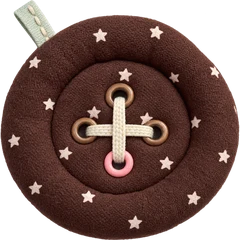
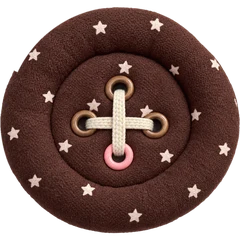
터치 중엔 자동 순환 안 함, 모바일 주민 대화 중 카드 안 띄움, 커피 단추 고리 없는 모양
- 활동 판정: 누름·휠·키 + 움직임·스크롤(capture, 0.5초에 한 번), 손가락이 닿아 있는 동안엔 시간이 지나도 시작 안 함. 순환 중 만지면 출발한 카메라도 멈춤(viewport.stop 새로 엶)
- 모바일 주민 대화: 카드(바텀시트)를 띄우지 않고 대화 상자 이름표 옆 '가게 카드 ›'(talk 의 action) — 누르면 대화를 닫고 카드, 대화가 끝나면 자동으로 카드. 데스크톱은 그대로
- 커피 단추: 지금 그림에서 왼쪽 위 민트 고리 부분만 잘라 낸 둥근 몸통(사용자가 보낸 고리 없는 단추와 같은 모양)

diff --git a/src/map/legacy/engine.legacy.js b/src/map/legacy/engine.legacy.js
@@ -239,7 +239,7 @@ export function bootLegacy(DATA){
      말을 거는 동안 그 주민은 그 자리에 서 있다(walker.hold). 말풍선·상자 모양은 이장님 것과 같다(chief-speech · chief-talk). 큰 상자가 닫히면 다시 걷는다 */
   const HOOK_MS = 3000;
   let villager = null, vHookT = null;   /* { w, script } 지금 말을 거는 주민 */
-  const vTalk = mountTalk(stage, { onEnd: () => { villagerDone(); if(KIOSK) idle(); } });   /* 대화가 끝나면 무입력 30초를 다시 센다 → 자동 순환 이어짐 */
+  const vTalk = mountTalk(stage, { onEnd: () => { const st = vEndCard; vEndCard = null; villagerDone(); if(st) openStoreCard(st); if(KIOSK) idle(); } });   /* 모바일: 대화가 끝나면 그 가게 카드 */   /* 대화가 끝나면 무입력 30초를 다시 센다 → 자동 순환 이어짐 */
   const vSpeech = mountSpeech(stage, {
     anchor: () => { const g = villager?.w.g; if(!g || g.getAttribute('display') === 'none') return null; const r = g.getBoundingClientRect(), st = stage.getBoundingClientRect(); return { x: r.left + r.width / 2 - st.left, y: r.top - st.top }; },
     bounds: () => { const m = map.getBoundingClientRect(), st = stage.getBoundingClientRect(); return { left: m.left - st.left, top: m.top - st.top, width: m.width, height: m.height }; },
@@ -251,15 +251,20 @@ export function bootLegacy(DATA){
     vHookT = setTimeout(() => { if(villager?.w === w && !vTalk.visible) villagerDone(); }, script.hook.length * 34 + HOOK_MS); }   /* 다 찍힌 뒤 HOOK_MS 동안 남는다(한 글자 34ms 타자) */
   /* 주민과 대화(10-23): 자동 순환을 멈추고 그 주민을 비춘다 — 큰 상자를 열고, 그 주민의 가게(대본 store = 가게 이름) 카드를 사이드바에 펴고,
      사이드바가 다 펴진 뒤 카메라가 주민 쪽으로 줌인(전시 보드에선 자동 순환과 같은 배율). 주민은 대화 동안 그 자리에 서 있다(hold) */
+  /* 모바일(10-23): 대화 중엔 가게 카드(바텀시트)를 띄우지 않는다 — 대화 상자와 겹쳤다. 이름표 옆 '가게 카드 ›' 로 대화를 닫고 바로 열거나, 대화가 끝나면 열린다(vEndCard) */
+  let vEndCard = null;
+  const openStoreCard = (st) => { if(KIOSK && board){ board.select(st.id); board.focus(null); } select(st, false); };
   function villagerOpen(w, script){ if(chiefBusy()) return; takeVillager(w, script); vSpeech.hide(); stopCycle();
+    const st = script.store ? STORES.find(s => s.name === script.store) : null, wide = desktop();
+    vEndCard = !wide && st ? st : null;
     vTalk.start({ name: script.store && !script.name.startsWith(script.store) ? `${script.store} · ${script.name}` : script.name,   /* 이름이 가게 이름으로 시작하면('신당야학 박소민 강학') 겹치지 않게 이름만 */
-      pages: script.pages.map(p => [p]) });
-    const st = script.store ? STORES.find(s => s.name === script.store) : null;
+      pages: script.pages.map(p => [p]),
+      action: !wide && st ? { label: '가게 카드 ›', onClick: () => { vEndCard = null; villagerDone(); openStoreCard(st); } } : undefined });
     const go = () => { if(villager?.w !== w) return;
-      if(st){ if(KIOSK && board){ board.select(st.id); board.focus(null); } select(st, false, true); }
+      if(st && wide){ if(KIOSK && board){ board.select(st.id); board.focus(null); } select(st, false, true); }
       const s0 = KIOSK && board ? focusZoom() : Math.max(scale(), 4.6);
-      centerOn(w.x + w.ox, w.y + w.oy, s0, desktop() ? V.ph * 0.1 : V.ph * 0.26); };   /* 큰 상자(데스크톱)·바텀시트(폰)가 아래를 덮으니 사람을 조금 위에 */
-    if(st) withSide(false, go); else go(); }
+      centerOn(w.x + w.ox, w.y + w.oy, s0, wide ? V.ph * 0.1 : V.ph * 0.14); };   /* 아래 큰 상자를 피해 사람을 조금 위에 */
+    if(st && wide) withSide(false, go); else go(); }
   function villagerDone(){ clearTimeout(vHookT); vSpeech.hide(); if(vTalk.visible) vTalk.hide(); villager?.w.release(); villager = null; }
   function bindVillager(w, script){
     w.makeClickable();
@@ -328,8 +333,20 @@ export function bootLegacy(DATA){
       centerOn(f.x, f.y, focusZoom(), desktop() ? 0 : V.ph * 0.24); });                    /* 폰은 바텀시트가 아래를 덮으니 조금 위로 */
     cycleT = setTimeout(cycleStep, DWELL_MS);
   }
-  const idle = () => { clearTimeout(idleT); stopCycle(); idleT = setTimeout(() => { if(canCycle()){ cycling = true; cycleStep(); } }, IDLE_MS); };
-  ['pointerdown', 'wheel', 'keydown', 'touchstart'].forEach(ev => window.addEventListener(ev, idle, { passive: true })); idle();
+  /* 활동 판정(10-23): 누르는 순간만이 아니라 손가락·마우스를 대고 있는 동안(끌기·핀치), 움직임, 스크롤(카드 읽기)도 활동.
+     capture 단계로 들어서 중간에서 막는 요소가 있어도 받는다. 손가락이 닿아 있는 동안엔 30초가 지나도 순환을 시작하지 않는다.
+     순환 중에 만지면 이미 출발한 카메라 이동도 그 자리에서 멈춘다(V.stop) — 전엔 카드를 만져도 카메라가 끝까지 가 '터치 중 전환'처럼 보였다 */
+  const downs = new Set(); let lastIdle = 0;
+  const startIdle = () => { clearTimeout(idleT); idleT = setTimeout(() => { if(downs.size){ startIdle(); return; } if(canCycle()){ cycling = true; cycleStep(); } }, IDLE_MS); };
+  const idle = () => { if(cycling){ stopCycle(); V.stop(); } lastIdle = performance.now(); startIdle(); };
+  const idleSoft = () => { if(cycling || performance.now() - lastIdle > 500) idle(); };   /* 움직임·스크롤은 0.5초에 한 번만 다시 센다 */
+  const opt = { passive: true, capture: true };
+  ['pointerdown', 'wheel', 'keydown', 'touchstart'].forEach(ev => window.addEventListener(ev, idle, opt));
+  ['pointermove', 'touchmove', 'scroll'].forEach(ev => window.addEventListener(ev, idleSoft, opt));
+  window.addEventListener('pointerdown', e => downs.add(e.pointerId), opt);
+  ['pointerup', 'pointercancel'].forEach(ev => window.addEventListener(ev, e => { downs.delete(e.pointerId); idle(); }, opt));
+  window.addEventListener('blur', () => downs.clear());
+  idle();
   function wake(){}   /* 예전엔 30초 뒤 자동 전환을 다시 걸었다. 호출 자리는 남겨 둔다 */
 
   /* 인트로 (펼침) */

diff --git a/src/features/chief-talk/talk.ts b/src/features/chief-talk/talk.ts
@@ -4,7 +4,7 @@ import './talk.css';
    · start(script): 첫 장부터. 한 장(pages[i])의 줄들을 차례로 찍고, 다 찍히면 holdMs 뒤 다음 장. 마지막 장은 lastHoldMs 뒤 닫힌다(onEnd).
    · 패널을 누르면: 찍는 중이면 그 장을 바로 다 보여주고, 다 보였으면 다음 장(마지막이면 닫기).
    · **굵게** 는 <b> 로(강조색). 순수 UI: 지도 엔진·데이터를 모른다. 대본은 content/characters/chief-talk.json. */
-export interface TalkScript { name: string; pages: string[][] }
+export interface TalkScript { name: string; pages: string[][]; action?: { label: string; onClick: () => void } }   // action: 이름표 오른쪽 작은 버튼(모바일 주민 대화의 '가게 카드 ›', 10-23)
 export interface TalkOptions { charMs?: number; lineGapMs?: number; holdMs?: number; lastHoldMs?: number; onEnd?: () => void }
 export interface Talk { start(script: TalkScript): void; hide(): void; readonly visible: boolean }
 
@@ -24,8 +24,10 @@ export function mountTalk(stage: HTMLElement, o: TalkOptions = {}): Talk {
   const charMs = o.charMs ?? 38, lineGapMs = o.lineGapMs ?? 260, holdMs = o.holdMs ?? 3200, lastHoldMs = o.lastHoldMs ?? 5000;
   const el = document.createElement('div'); el.className = 'talk'; el.setAttribute('role', 'dialog'); el.setAttribute('aria-live', 'polite');
   /* 시안 v2 의 대화 상자(10-23): 리넨 천 + 홈질 테두리, 왼쪽 위 이름 꼬리표, 글, 오른쪽 아래 쪽수. 얼굴 그림은 없다(10-23 사용자 결정) */
-  el.innerHTML = '<span class="tk-name"></span><div class="tk-lines"></div><span class="tk-page"></span>';
+  el.innerHTML = '<span class="tk-name"></span><button type="button" class="tk-act"></button><div class="tk-lines"></div><span class="tk-page"></span>';
   stage.appendChild(el);
+  const actEl = el.querySelector('.tk-act') as HTMLButtonElement;
+  actEl.addEventListener('click', (e) => { e.stopPropagation(); script?.action?.onClick(); });
   const nameEl = el.querySelector('.tk-name') as HTMLElement, linesEl = el.querySelector('.tk-lines') as HTMLElement, pageEl = el.querySelector('.tk-page') as HTMLElement;
   let script: TalkScript | null = null, page = 0, run = 0, timer = 0, typing = false, visible = false;
   const clear = () => { clearTimeout(timer); timer = 0; };
@@ -61,7 +63,7 @@ export function mountTalk(stage: HTMLElement, o: TalkOptions = {}): Talk {
   });
   return {
     get visible() { return visible; },
-    start(s) { clear(); script = s; page = 0; visible = true; nameEl.textContent = s.name; el.classList.add('show'); showPage(); },
+    start(s) { clear(); script = s; page = 0; visible = true; nameEl.textContent = s.name; actEl.textContent = s.action?.label || ''; actEl.hidden = !s.action; el.classList.add('show'); showPage(); },
     hide,
   };
 }

diff --git a/src/map/viewport.ts b/src/map/viewport.ts
@@ -34,6 +34,7 @@ export interface Viewport {
   centerOn(x: number, y: number, targetScale: number, offsetY?: number, onDone?: () => void): void;
   toMap(clientX: number, clientY: number): [number, number];   // 화면 px → 지도 좌표
   relayout(): void;
+  stop(): void;   // 진행 중인 카메라 이동을 그 자리에서 멈춤(자동 순환 중 사람이 만졌을 때)
   destroy(): void;
 }
 
@@ -148,6 +149,7 @@ export function createViewport(o: ViewportOptions): Viewport {
   }
 
   return {
+    stop: stopAnim,
     get x() { return vx; }, get y() { return vy; }, get w() { return vw; }, get h() { return vh; },
     get pw() { return pw; }, get ph() { return ph; }, get moved() { return moved; },
     scale, apply, fit, homeView, resetHome, clampView, zoomAt, zoomSmooth, animateTo, centerOn, toMap, relayout, destroy,

diff --git a/src/features/chief-talk/talk.css b/src/features/chief-talk/talk.css
@@ -11,3 +11,7 @@
 .talk .tk-page{position:absolute;right:14px;bottom:8px;font-family:"Nanum Pen Script","IBM Plex Sans KR",cursive;font-size:15px;color:#9b3d49}
 @media(max-width:700px){.talk{bottom:24px;width:calc(100% - 32px);padding:16px 16px 14px}.talk .tk-lines{font-size:15px}}
 @media(prefers-reduced-motion:reduce){.talk{transition:opacity .2s}}
+
+/* 이름표 오른쪽 작은 버튼(10-23, 모바일 주민 대화의 '가게 카드 ›') — 이름표와 같은 꼬리표 모양, 테두리만 */
+.talk .tk-act{position:absolute;right:14px;top:-13px;z-index:1;padding:3px 10px;background:#fbf3e2;color:#8c1e32;border:1px solid #8c1e32;border-radius:2px;font:700 12px var(--font-ui);line-height:1.35;cursor:pointer}
+.talk .tk-act[hidden]{display:none}

diff --git a/CLAUDE.md b/CLAUDE.md
@@ -77,7 +77,7 @@ node tools/check_screen.mjs   # 헤드리스 Chrome. 마지막 줄 "통과"
 
 ## 6. 다음 할 일: 전시 기능 (서로 독립, 기능 하나 → 확인 → 커밋)
 우선순위는 전시 기획에 따른다.
-- **주민 클릭 → 인터뷰**(10-23 1명 완료): 대본은 `content/characters/villagers/*.json`(파일 하나 = 주민 하나, 형식은 `sindang-yahak.json`: id·name·store(가게 이름과 똑같이)·hook·pages, 선택 `look`(모습 지정 — `act.json` 참고: style short|bob|hat, bun·bag, col 은 팔레트 키 h머리·t윗옷·p바지·b신발·s피부·a모자·g가방, 색은 `palette.json` 안에서만. 없으면 무작위), 3장 미만은 안 띄우고 8장까지). 앞의 주민부터 하나씩 대본을 받는다(`bindVillager`, 임시 엔진 전시 모드 블록). 마우스를 올리면(터치는 첫 탭) 머리 위에 hook 말풍선(다 찍힌 뒤 3초), 누르면(터치는 두 번째 탭) 이장님과 같은 큰 상자에 장마다 넘김(이름표 '가게 · 이름'). 대화가 열리면 자동 순환을 멈추고 그 주민을 비춘다(10-23): 대본 `store` 와 이름이 같은 가게 카드를 사이드바(폰 바텀시트)에 펴고(`select(st, false, true)` — 셋째 인자는 주민 대화를 닫지 않음), 사이드바가 다 펴진 뒤 주민 쪽으로 줌인(전시 보드는 자동 순환과 같은 배율, 평소 지도는 4.6 이상). 대화가 끝나면 무입력 30초를 다시 센다. 말을 거는 동안 그 주민은 멈춰 선다(`walker.hold/release`), 누를 수 있는 주민은 스프라이트 칸 전체가 투명 사각형으로 잡힌다(`makeClickable`, `.wk-talk`). 평소 지도·전시 보드 둘 다. **빨간 세모(이장님과 같은 표시)는 `kind: "form"`(시민이 구글폼으로 남긴 인터뷰) 주민에게만** — 가게 인터뷰 주민(`shop`)은 표시 없음(10-23 사용자 결정, `walker.showMark`). 지금 2명(바액트 사장님 — 모습 지정, 신당야학 박소민 강학 — 무작위). 남은 것: 고정 행인 채우기.
+- **주민 클릭 → 인터뷰**(10-23 1명 완료): 대본은 `content/characters/villagers/*.json`(파일 하나 = 주민 하나, 형식은 `sindang-yahak.json`: id·name·store(가게 이름과 똑같이)·hook·pages, 선택 `look`(모습 지정 — `act.json` 참고: style short|bob|hat, bun·bag, col 은 팔레트 키 h머리·t윗옷·p바지·b신발·s피부·a모자·g가방, 색은 `palette.json` 안에서만. 없으면 무작위), 3장 미만은 안 띄우고 8장까지). 앞의 주민부터 하나씩 대본을 받는다(`bindVillager`, 임시 엔진 전시 모드 블록). 마우스를 올리면(터치는 첫 탭) 머리 위에 hook 말풍선(다 찍힌 뒤 3초), 누르면(터치는 두 번째 탭) 이장님과 같은 큰 상자에 장마다 넘김(이름표 '가게 · 이름'). 모바일은 대화 중 카드를 띄우지 않고(대화 상자와 겹침) 이름표 옆 '가게 카드 ›'(`TalkScript.action`)로 대화를 닫고 열거나 대화가 끝나면 연다. 터치 판정은 pointerdown 의 종류(iOS 사파리는 click 에 비어 옴). 대화가 열리면 자동 순환을 멈추고 그 주민을 비춘다(10-23): 대본 `store` 와 이름이 같은 가게 카드를 사이드바(폰 바텀시트)에 펴고(`select(st, false, true)` — 셋째 인자는 주민 대화를 닫지 않음), 사이드바가 다 펴진 뒤 주민 쪽으로 줌인(전시 보드는 자동 순환과 같은 배율, 평소 지도는 4.6 이상). 대화가 끝나면 무입력 30초를 다시 센다. 말을 거는 동안 그 주민은 멈춰 선다(`walker.hold/release`), 누를 수 있는 주민은 스프라이트 칸 전체가 투명 사각형으로 잡힌다(`makeClickable`, `.wk-talk`). 평소 지도·전시 보드 둘 다. **빨간 세모(이장님과 같은 표시)는 `kind: "form"`(시민이 구글폼으로 남긴 인터뷰) 주민에게만** — 가게 인터뷰 주민(`shop`)은 표시 없음(10-23 사용자 결정, `walker.showMark`). 지금 2명(바액트 사장님 — 모습 지정, 신당야학 박소민 강학 — 무작위). 남은 것: 고정 행인 채우기.
 - **이장님 영상·자막**: `actors/chief.ts`의 이장님 `g`에 클릭(`pointer-events` 켜기) → `features/chief/`가 `<video>`와 동물의 숲식 자막 상자를 띄운다. 영상 `public/chief/chief.mp4` 20MB 이하, 자막 `content/chief/subtitles.json`.
 - **구글폼 → 시민 인터뷰 주민**(10-23 코드 완료, 연결은 사용자 몫 — `tools/apps-script/설치_안내.md`): §9 파이프라인. service role(secret) 키는 Apps Script 스크립트 속성에만.
 - **이스터에그**: 상단 "MORE" 5회 클릭 → 경관 대시보드(별도 Pages 프로젝트). `features/easter-egg/`.
@@ -143,7 +143,7 @@ interviews   인터뷰    id, source(form|shop), answers(json), summary_md, stor
 - 폼을 고쳐 같은 문항 열이 두 벌(옛 문장·새 문장, 단일·복수 선택)이어도 번호('SQ1.' '문8-1.')나 파트 A 문장 사전(옛·새 둘 다)으로 찾고 값이 있는 뒤쪽 열을 쓴다.
 - 외형은 캐릭터 id 를 seed 로(같은 사람은 늘 같은 모습). 새 주민은 화면 밖 길에서 걸어 들어온다. 견본 응답 `content/characters/form-samples.json`, `?formdemo=N` 으로 DB 없이 미리 보기.
 - 이장님: 클릭 시 영상 재생 + 동물의 숲식 자막 상자. 이스터에그: MORE 5회 클릭 → 경관 대시보드.
-- **전시 모드 = 전시 보드**(10-23, 정본은 `features/kiosk-board/board.ts` 머리 주석과 `engine.legacy.js` 전시 모드 블록): 켜면 사이드바가 접히고 카메라가 보드 전체(시안 캔버스 1774×887, 폰은 섬 폭)를 담는 자리로 간 뒤 `board.play` — ⓪ 화면이 밤색(.kb-shade, 낮→밤 커튼 색)으로 어두워지고(0.35s, 그 아래서 옛 섬·바다가 바뀐다 `html.kb-dark`) ① 0.3s 쉬고(빨간 재단선 그리기는 10-23에 뺐다) ② 어둠이 걷히는(1.4s) 동안 보드가 윤곽 자리에서 떠올라 섬만큼 펴진다(1.5s) ③ 블랭킷 스티치·하늘(해·구름·별)·물결 ④ 길 홈질 ⑤ 집·나무 ⑦ 제목 → ⑧ 이장님 쪽으로 두 단계(×1.6²) 줌인한 뒤 등장·말풍선·큰 상자(엔진, 대화가 끝나면 보드 전체로 물러남. 그 뒤 이장님에게 마우스를 올리거나 탭하면 머리 위 말풍선 '허허, 또 왔구먼! 아직 못 가 본 가게가 있나?' — `CHIEF_AGAIN`, `chief.makeHoverable`) → 마지막 장이 닫히면 ⑨ 범례(제목을 누르면 접기·펴기, 처음엔 데스크톱 펼침·폰 접힘, 클래스는 인트로 `.folded` 와 겹치지 않게 `kb-folded`)·주민·단추(`kioskRest` → `board.rest`, `html.kb-rest`. 단추는 10-23부터 여기서 차례로). 연출 중엔 지도를 만져도 끊기지 않고, 연출 동안만 보이는 '건너뛰기' 버튼(`.kb-skip`, 지도 오른쪽 위)으로만 바로 다 보이게(`kioskSkip`, 10-23). 30초 무입력이면 자동 순환(10-23): 가게 단추를 왼쪽부터 하나씩 줌인(보드 배율 ×2.6, 폰 ×2.2)하며 단추를 콩콩 강조(`board.focus`)하고 단추를 눌렀을 때와 같은 카드를 연다(사이드바가 다 펴진 뒤 카메라), 6초씩. 한 바퀴 뒤엔 카드를 닫고 보드 전체 6초. 범례 필터가 있으면 그 업종만. 입력이 오면 바로 멈춘다(열린 카드는 둠). 30초는 쉬는 상태(rest)가 되는 순간부터 새로 센다(건너뛰기 버튼은 지도 끌기를 막으려 pointerdown 을 멈추므로). **OFF 는 커튼**(`kiosk-board/curtain.ts`)으로 덮고 보드·이장님·주민·사이드바·카메라를 한 번에 되돌린다.
+- **전시 모드 = 전시 보드**(10-23, 정본은 `features/kiosk-board/board.ts` 머리 주석과 `engine.legacy.js` 전시 모드 블록): 켜면 사이드바가 접히고 카메라가 보드 전체(시안 캔버스 1774×887, 폰은 섬 폭)를 담는 자리로 간 뒤 `board.play` — ⓪ 화면이 밤색(.kb-shade, 낮→밤 커튼 색)으로 어두워지고(0.35s, 그 아래서 옛 섬·바다가 바뀐다 `html.kb-dark`) ① 0.3s 쉬고(빨간 재단선 그리기는 10-23에 뺐다) ② 어둠이 걷히는(1.4s) 동안 보드가 윤곽 자리에서 떠올라 섬만큼 펴진다(1.5s) ③ 블랭킷 스티치·하늘(해·구름·별)·물결 ④ 길 홈질 ⑤ 집·나무 ⑦ 제목 → ⑧ 이장님 쪽으로 두 단계(×1.6²) 줌인한 뒤 등장·말풍선·큰 상자(엔진, 대화가 끝나면 보드 전체로 물러남. 그 뒤 이장님에게 마우스를 올리거나 탭하면 머리 위 말풍선 '허허, 또 왔구먼! 아직 못 가 본 가게가 있나?' — `CHIEF_AGAIN`, `chief.makeHoverable`) → 마지막 장이 닫히면 ⑨ 범례(제목을 누르면 접기·펴기, 처음엔 데스크톱 펼침·폰 접힘, 클래스는 인트로 `.folded` 와 겹치지 않게 `kb-folded`)·주민·단추(`kioskRest` → `board.rest`, `html.kb-rest`. 단추는 10-23부터 여기서 차례로). 연출 중엔 지도를 만져도 끊기지 않고, 연출 동안만 보이는 '건너뛰기' 버튼(`.kb-skip`, 지도 오른쪽 위)으로만 바로 다 보이게(`kioskSkip`, 10-23). 30초 무입력이면 자동 순환(10-23): 가게 단추를 왼쪽부터 하나씩 줌인(보드 배율 ×2.6, 폰 ×2.2)하며 단추를 콩콩 강조(`board.focus`)하고 단추를 눌렀을 때와 같은 카드를 연다(사이드바가 다 펴진 뒤 카메라), 6초씩. 한 바퀴 뒤엔 카드를 닫고 보드 전체 6초. 범례 필터가 있으면 그 업종만. 입력이 오면 바로 멈추고 이미 출발한 카메라도 그 자리에서 선다(`V.stop`, 열린 카드는 둠). 활동 = 누름·휠·키 + 움직임·스크롤(capture, 0.5초에 한 번), 손가락이 닿아 있는 동안엔 시간이 지나도 시작 안 함. 기다리는 시간 `IDLE_MS` 는 사용자가 조정(10-23 현재 3초). 30초는 쉬는 상태(rest)가 되는 순간부터 새로 센다(건너뛰기 버튼은 지도 끌기를 막으려 pointerdown 을 멈추므로). **OFF 는 커튼**(`kiosk-board/curtain.ts`)으로 덮고 보드·이장님·주민·사이드바·카메라를 한 번에 되돌린다.
   - 인트로와의 순서(10-23): 인트로가 떠 있는 동안엔 뒤에서 아무것도 돌지 않는다. '인트로 다시 보기'는 전시 연출을 그 자리에서 멈추고(`stopKiosk`) 평소 지도로 되돌린다(ON/OFF 상태는 유지). 인트로가 끝나면 평소 지도 → 카메라 0.7s + 1s 뒤 전시 연출(`endIntro`). 늦게 도착하는 콜백(사이드바 접힘·커튼·지연 시작)은 차례 번호 `kioskSeq` 로 막는다.
   - 모양·톤·연출·png 자리는 시안 `MORE_exhibition_dynamic_v2.html` 그대로(사용자 결정, 낮/밤 구분 없음 — 바다 #7793b1 + 리넨, 섬 덩어리는 시안의 sine 블롭). **길만 실제 길**: 재단선 안의 `roads.json`(a·b 큰 길 = 굵은 띠 + 양 가장자리 홈질, c 골목 = 흰 띠만(10-23 점선 뺌), d 생략)을 재단선 상자 → 섬 덩어리 상자(0.92)로 균일 변환해 넣는다. 그린 뒤 정돈(10-23): `kiosk-board.json` 의 `hideRoads`(캔버스 단위 타원·다각형) 안 골목과 `hideMain` 안 큰 길은 빼고(잘린 큰 길 끝은 늘리지 않고, 그 자리에 붙은 60 미만 조각은 버린다), 맞닿은 토막은 한 줄로 이어 점선 박자를 맞추고, 막다른 큰 길은 섬 가장자리까지 늘려 실에 물려 끝나게, 길 홈질은 연하게(opacity .42/.38). 길 폭 큰 길 24·골목 11. 가게 단추도 실제 자리(재단선 밖 12단위까지 포함, 섬 밖이면 안쪽으로 밀어 넣음). 업종은 `stores.category`(없으면 기타) → 단추 무늬·범례 필터.
   - 좌표: 시안 캔버스 단위를 지도 좌표에 1:1 평행이동(캔버스 가운데 = 섬 가운데)으로 놓는다. `kiosk-board.json` 의 props·sky·waves·titleAt·chiefAt 는 전부 캔버스 단위.
